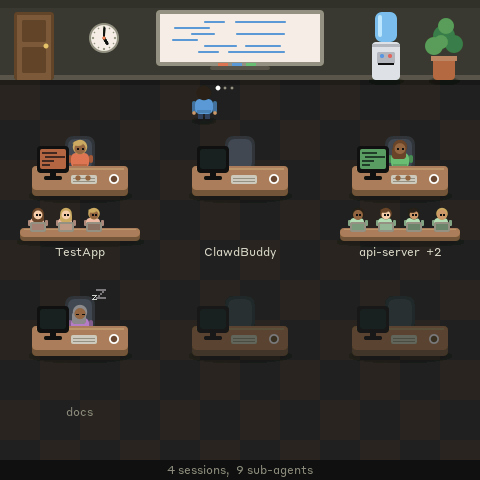
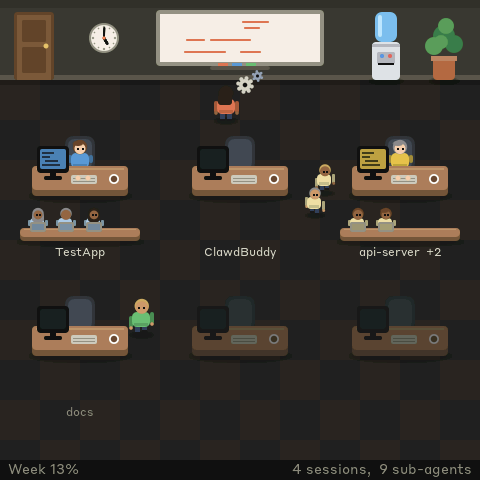
Docs: the office view's new states, the desk card, the status line
Rewrites the office view's state table and data sources, documents tx, td,
aw and the desk request in the protocol, and says what the hooks and the
status line record now, including the session's title. New captures for
the states, the card and the shut office; a simulator scenario for them.

diff --git a/README.md b/README.md
@@ -103,8 +103,10 @@ More detail: [docs/pet-view.md](docs/pet-view.md).
 Off by default. Turn on **Agent team view** on the app's Device page, then
 tap the left or right side of the screen.
 
-**Desks.** Each Claude Code session gets a desk, named after its working
-directory. Sessions sit in the order they started, six to an office.
+**Desks.** Each Claude Code session gets a desk, named after the session's
+title (the one Claude Code shows for it) or, before it has one, its working
+directory. Two sessions that would read the same are numbered (`api`,
+`api 2`). Sessions sit in the order they started, six to an office.
 
 **Two styles.** The app's Device page offers two looks for the office.
 Everything else on this page works the same in both.
@@ -126,14 +128,34 @@ the wall, and form a second row only when the first is full.
 
 **The main agent** sits behind the desk:
 
+![Done, an error, compacting, thinking, and paper for the context used](docs/images/office-states.png)
+
 | You see | It means |
 | --- | --- |
-| Typing, monitor lit with scrolling lines | Running tools |
-| Standing at the whiteboard, writing on it | In a turn with no tool call for 10 seconds: thinking, or one long tool |
+| Typing, monitor lit with scrolling lines | A tool is running, however long it takes, or one just finished |
+| Two gears turning over its head | Thinking: in a turn with no tool running. After six seconds it walks to the whiteboard and writes |
+| At the whiteboard while tools run | Plan mode: the work is a plan |
+| Gears, at the desk | Waiting for its sub-agents, during a turn or after it |
 | A `?` bubble, the name in orange | Waiting for you: a permission prompt or a question |
-| At the desk with thinking dots | Its turn is over, but its sub-agents are still running |
-| Head down under a `z` | Between turns |
-| At the water cooler with a cup | Between turns for 2 minutes or more |
+| A green tick, the name in green | Its turn just ended: your move |
+| A red `!`, the name in red | The turn ended on an API error, such as a usage limit |
+| Arrows pressing in from both sides, a pulsing monitor | Compacting its context |
+| Head down under a `z` | Three minutes after its turn ended |
+| At the water cooler with a cup | Six minutes after its turn ended |
+
+**Paper for the context.** The stack of paper on a desk is how much of its
+context window the session has used: as tall as the monitor when it is full.
+The top sheet turns orange at three quarters and red at nine tenths, and the
+stack sinks while the session compacts. A desk has a mug instead until the
+app knows the figure, which comes from Claude Code's status line (see
+[Settings](#settings)).
+
+**A desk's card.** Tap a desk for the session's full title, what it is doing
+and for how long, the tool running, the model, the context used, its
+sub-agents by type, its task list's progress and the lines it has changed.
+Tap again to close it.
+
+![A desk's card](docs/images/office-card.png)
 
 **Sub-agents** are the smaller people on the bench in front of the desk, in a
 lighter shade of their main agent's colour. Up to four are drawn; `+N` after
@@ -141,8 +163,10 @@ the name counts the rest. Now and then one walks to the whiteboard and back. A
 sub-agent with no activity for 2 minutes waits at the water cooler.
 
 **Coming and going.** Sessions and sub-agents walk in and out through the
-door. A session leaves when it exits, or 15 minutes after its last turn ended.
-When one leaves, the sessions after it move up a desk.
+door. A session arrives when it opens and leaves when it exits, when its
+process is gone, or 15 minutes after its last turn ended. When one leaves,
+the sessions after it move up a desk. A session is the same person in the
+same colour each time it comes in.
 
 **More sessions than desks.** The seventh session (the fifth, with cubicles)
 opens another office, up to twelve sessions in all, and the bottom line
@@ -151,9 +175,18 @@ in the other office walks out of one door and in at the other. An office with
 nobody left is removed. With more than six sessions, names are cut to 8
 characters.
 
-**Also on screen:** the wall clock shows the real time, the whiteboard fills
-with what people write and is wiped when full, and the bottom line counts
-sessions and sub-agents or shows the alert.
+**The bottom line** has the plan's usage on the left (`5h 45%  week 28%`, in
+orange when a limit is used up) and, on the right, the sessions and
+sub-agents in, or the alert.
+
+**No connection.** When the board loses the computer, or hears nothing for a
+minute and a half, the office is shut: lights off, nobody in, and the bottom
+line says so. It opens again as it was when the connection is back.
+
+![The office shut](docs/images/office-shut.png)
+
+**Also on screen:** the wall clock shows the real time, and the whiteboard
+fills with what people write and is wiped when full.
 
 More detail: [docs/office-view.md](docs/office-view.md).
 
@@ -171,8 +204,14 @@ When a session needs you, the board chimes and shows which one:
 | `Stopped on error: my-project` | Another API error ended the turn |
 
 The alert clears when you answer in the terminal, when you tap the screen, or
-after 2 minutes. On the office view the same text shows on the bottom line and
-the session's desk gets the `?`.
+after 2 minutes. On the office view the same text shows on the bottom line,
+the session's desk gets the `?`, and if that desk is in another office the
+view switches to it until the alert ends.
+
+**While you are away.** On macOS the app knows when the keyboard and pointer
+were last used. After three minutes without input an alert no longer times
+out: it waits, and when you are back it chimes again and gets its two minutes
+from then.
 
 ## Controls
 
@@ -182,7 +221,8 @@ the session's desk gets the `?`.
 | Pet view, office view on | Left or right third of the screen | The next or previous view |
 | Large pet | Left or right third | Previous or next species |
 | Large pet | Middle | Back to the meters |
-| Office view | Left or right third | The next or previous view |
+| Office view | A desk | That session's card; any tap closes it |
+| Office view | Left or right third, off a desk | The next or previous view |
 | Anywhere, during an alert | Anywhere | Dismisses the alert |
 | Screensaver | Anywhere | Wakes the pet |
 
@@ -280,7 +320,13 @@ The app's **Device** page sets what the board does:
 | Button | What the BOOT button sends to your computer |
 | Alert chime, session reset chime | The board's sounds |
 
-The **Hooks** page installs and removes the Claude Code hooks. The
+The **Hooks** page installs and removes the Claude Code hooks, each with a
+10-second timeout so a hook that can't start never holds Claude Code up. It
+also sets ClawdBuddy as Claude Code's status line when you have none: one
+line under the prompt (`Fable 5.2 · context 42% · 5h 45% · week 28%`), which
+is how the app learns each session's context and gets the plan's usage after
+every reply. A status line of your own is left alone; the desks then show no
+paper. After updating the app, save the Hooks page once to get the new hooks. The
 **Accounts** page picks which Claude Code account's usage is shown when you
 have more than one.
 
@@ -313,8 +359,16 @@ matching firmware.
 - **Usage** comes from Claude Code's usage endpoint, with the sign-in Claude
   Code already stored.
 - **Hooks** record the event's name, the session id, the sub-agent id, the
-  tool's name or the notification's type, and the name of the working
-  directory. They never record a prompt, a tool's input or its output.
+  tool's name or the notification's type, the name of the working directory,
+  the permission mode, the model, and the session's title as Claude Code
+  shows it. They never record a prompt, a tool's input or its output. The
+  title is text Claude Code wrote about the conversation; it goes to the
+  board and nowhere else.
+- **The status line** command keeps each session's context %, model, usage
+  windows, cost and lines changed.
+- **Claude Code's list of running sessions** (`~/.claude/sessions`) is read
+  to see which sessions are still alive and whether each is busy, idle or
+  waiting.
 - Nothing is sent anywhere except to the board over Bluetooth, and to GitHub
   when the app checks for an update.
 

diff --git a/docs/office-view.md b/docs/office-view.md
@@ -13,43 +13,69 @@ Claude Code runs the app's hook on these events:
 
 | Hook | Used for |
 | --- | --- |
+| `SessionStart`, `SessionEnd` | The session arrived or left; its model |
 | `UserPromptSubmit` | A turn started: the main agent is thinking |
-| `PostToolUse` | A tool ran. Inside a sub-agent the event carries its `agent_id`, which shows that sub-agent is alive |
-| `PreToolUse` (AskUserQuestion), `Notification` | Waiting for you |
-| `Stop`, `StopFailure` | The turn ended |
-| `SubagentStart`, `SubagentStop` | A sub-agent came or went |
-| `SessionEnd` | The session left |
+| `PreToolUse` | A tool started. Until it ends the session is working; an `Agent` call is waiting for sub-agents, the question tool is waiting for you |
+| `PostToolUse`, `PostToolUseFailure` | The tool ended. A failure marked as interrupted ends the turn. Inside a sub-agent the event carries its `agent_id`, which shows that sub-agent is alive |
+| `PermissionRequest`, `Notification` | Waiting for you |
+| `Stop` | The turn ended, and how many agents still run in the background |
+| `StopFailure` | The turn ended on an API error |
+| `SubagentStart`, `SubagentStop` | A sub-agent came or went; its type |
+| `PreCompact`, `PostCompact` | Compacting |
+| `TaskCreated`, `TaskCompleted` | The task list's progress, for the card |
 
 Every call appends one line to `team.log` in the app's folder: the time, the
 event, the session id, the sub-agent id, the tool's name or the notification's
-type, and the name of the working directory. Never a prompt, or a tool's input
-or output.
+type, a few extras (`+pm=plan,tt=Fix_the_login_page,bg=1`: the permission
+mode, the model, the session's title, the agents still running at a Stop, an
+interrupted tool, a StopFailure's error) and the name of the working
+directory. Never a prompt, or a tool's input or output.
 
-The app folds the last hour of that file into the sessions to show
+Two more sources, both optional:
+
+- **The status line.** `clawdbuddy hook statusline` is a Claude Code
+  `statusLine` command. Claude Code hands it each session's context %, model
+  and usage windows after every reply; it keeps them in
+  `statusline/<session id>.json` in the app's folder. The context becomes the
+  paper on the desk.
+- **Claude Code's list of running sessions**, `sessions/<pid>.json` in its
+  config folder (the data behind `claude agents --json`): the process id and
+  a status of busy, idle or waiting. Its format is not documented, so a file
+  that doesn't read as expected is skipped. Where it is newer than the last
+  hook it wins: idle after an interrupt (which has no hook), busy again once
+  a permission was given, waiting before the notification arrives. A session
+  whose process is gone leaves at once.
+
+The app folds the last hour of the log into the sessions to show
 (`desktop/crates/clawdbuddy-core/src/team.rs`) and sends them to the board as
-the `tm` field ([protocol](protocol.md)).
+the `tm` and `tx` fields ([protocol](protocol.md)).
 
 ## A session's state
 
-| State | Sent as | Rule |
-| --- | --- | --- |
-| Working | `w` | The main agent ran a tool in the last 10 seconds |
-| Thinking | `t` | In a turn, no tool call from the main agent for 10 seconds |
-| Waiting | `q` | A permission prompt, a question or an elicitation dialog is up |
-| Delegating | `d` | The turn ended and sub-agents are still running |
-| Idle | `i` | The turn ended, less than 2 minutes ago |
-| On a break | `b` | The turn ended 2 minutes ago or more |
+| State | `tx` | `tm` | Rule |
+| --- | --- | --- | --- |
+| Working | `w` | `w` | A tool is running, or the last one ended within 10 seconds |
+| Thinking | `t` | `t` | In a turn, no tool running |
+| Waiting for you | `q` | `q` | A permission prompt, a question or an elicitation dialog is up |
+| Waiting for sub-agents | `d` | `d` | An `Agent` call is running, or the turn ended and sub-agents still run |
+| Compacting | `c` | `t` | Between `PreCompact` and the next event (10 minutes at most) |
+| Done | `f` | `i` | The turn ended less than 3 minutes ago |
+| Failed | `e` | `i` | The turn ended on an API error |
+| Idle | `i` | `i` | 3 to 6 minutes after the turn ended; or between turns without one having ended (an interrupt), for 2 minutes |
+| On a break | `b` | `b` | After that |
 
-Two things are inferred, because Claude Code has no event for them:
+What is still inferred:
 
-- **Thinking** is "no tool call for 10 seconds", so one long-running command
-  looks the same.
-- **A sub-agent's end** is sometimes not reported. A sub-agent with no event
-  for 10 minutes is taken as gone; after 2 minutes it is counted as quiet and
-  stands at the water cooler.
+- **An interrupt while thinking** has no event. With the list of running
+  sessions it shows at once; without it, a turn with no tool running and no
+  event for 5 minutes is taken as over.
+- **A sub-agent's end** is sometimes not reported. `Stop` says how many still
+  run, and the ones heard from longest ago are dropped to match; otherwise a
+  sub-agent with no event for 10 minutes is taken as gone. After 2 minutes
+  without an event it is counted as quiet and stands at the water cooler.
 
-A session leaves when it exits (`SessionEnd`), 15 minutes after its last turn
-ended, or after an hour without any event.
+A session leaves when it exits (`SessionEnd`), when its process is gone, 15
+minutes after its last turn ended, or after an hour without any event.
 
 ## The scene
 
@@ -72,14 +98,24 @@ and the bottom line are text labels over it (`pet/team_view.cpp`).
   at the door of the other.
 - Each session keeps the shirt colour it was given when it arrived (the one
   fewest sessions were wearing). Sub-agents wear a lighter shade.
-- The main agent goes to the whiteboard after 3 seconds of thinking and comes
-  back when the state changes. Sub-agents visit it at random while their
-  session works.
+- The main agent goes to the whiteboard after 6 seconds of thinking (or of
+  working, in plan mode), stays at least 4 seconds, and comes back when the
+  state changes; a question brings it back at once. Sub-agents visit it at
+  random while their session works.
+- People on their feet who meet step aside for a moment, the one later in
+  the list waiting for the other.
+- A tap is a desk's when it lands on the desk itself (not its bench or its
+  name); the board then asks the app for that desk's card.
+- The context used is a stack of sheets beside the monitor, 42 pixels tall
+  when full, which is the monitor's height.
+- The room's fixed parts (walls, floor, door, board, cooler, plant) are drawn
+  once into a second picture and copied each frame. The time a frame takes
+  is written to the serial log every 300 frames (`team view: N us a frame`).
 - While the view is off screen nobody walks: arrivals are simply at their
   desks the next time it comes up.
 
-The view's picture takes 460 KB of the board's PSRAM, allocated the first
-time it is shown.
+The view's picture and the copy of the room each take 460 KB of the board's
+PSRAM, allocated the first time it is shown.
 
 ## Trying it
 
@@ -87,6 +123,8 @@ time it is shown.
 cd firmware
 SIM_FAST=1 SIM_SCENARIO=sim/team.jsonl SIM_TAPS="3000@440,300" .pio/build/sim/program
 SIM_FAST=1 SIM_SCENARIO=sim/team-cubicles.jsonl SIM_TAPS="3000@440,300" .pio/build/sim/program
+# The finer states, the paper, and a desk's card (the second tap).
+SIM_FAST=1 SIM_SCENARIO=sim/team-states.jsonl SIM_TAPS="3000@440,300;10000@80,170" .pio/build/sim/program
 SIM_FAST=1 SIM_SCENARIO=sim/team-two-offices.jsonl \
   SIM_TAPS="3000@440,300;16000@440,300;40000@40,300" .pio/build/sim/program
 ```

diff --git a/docs/protocol.md b/docs/protocol.md
@@ -27,7 +27,10 @@ payloads to 500 bytes; the firmware has a 512-byte receive buffer, including
 the terminating null byte. The device notifies `0x01` on REQ when it has no
 data yet, asking for a poll.
 It sends `{"dismiss":true}` on TX when a tap or the device's 2-minute timeout
-ends an alert, so the app clears its corresponding alert too. The app expires
+ends an alert, so the app clears its corresponding alert too. It sends
+`{"desk":"a3"}` on TX when a desk in the team view is tapped (and every 3
+seconds while its card is up): the app answers with `td` for the desk with
+that `tm` id. The app expires
 an alert nothing cleared after the same 2 minutes (a test alert after 30
 seconds) and sends `x` if the device still shows it.
 
@@ -57,7 +60,10 @@ A Codex account (a $100 Pro plan: weekly window only, reset credits):
 | `a`, `e`, `es`, `n` | Fast clock: activity 0–3, latest hook event (`p` prompt, `s` stop, `b` back after a gap) and its sequence number, active sessions. |
 | `lt` | The last tool a session ran, as text to show: `my-project: Bash` (the session's working directory name and the tool's name, at most 34 characters; a long project name is cut so the tool shows). From the `PostToolUse` hook, at most one change every 5 s. Shown by the pet view under the status word, over the session count. The first field dropped when a write would exceed its size. |
 | `tv` | The agent team view: 0 = off, 1 = on with the desks skin, 2 = on with the cubicles skin (`team_view` and `team_skin` in the config). Sent with every data payload; the board keeps it until the next one. Firmware 0.1.0 reads any non-zero value as on, with desks. |
-| `tm` | The team view's desks, sent only while `tv` is 1: one entry per session in desk order (the order the sessions started), joined with `\|`, at most twelve; the firmware seats six to an office. An entry is two hex digits (an id that stays the same for the session's life), a state letter (`w` working, `t` thinking, `q` waiting for you, `d` turn over but sub-agents still running, `i` idle, `b` idle for 2 minutes or more), one digit for the sub-agents running (9 = nine or more), one digit for how many of those have had no event for 2 minutes, then the project name (ASCII, at most 12 characters, 8 when there are more than six sessions). `a3w21TestApp\|07b00ClawdBuddy`. Empty when no session is up. At most one change every 2 s. Dropped after `lt` when a write would exceed its size. |
+| `tm` | The team view's desks, sent only while `tv` is not 0: one entry per session in desk order (the order the sessions started), joined with `\|`, at most twelve; the firmware seats six to an office. An entry is two hex digits (an id that stays the same for the session's life), a state letter (`w` working, `t` thinking, `q` waiting for you, `d` turn over but sub-agents still running, `i` idle, `b` idle for 2 minutes or more), one digit for the sub-agents running (9 = nine or more), one digit for how many of those have had no event for 2 minutes, then the project name (ASCII, at most 12 characters, 8 when there are more than six sessions). `a3w21TestApp\|07b00ClawdBuddy`. The name is the session's title when it has one. Empty when no session is up. At most one change every 2 s. Dropped after `lt` when a write would exceed its size. |
+| `tx` | More about each desk in `tm`, four characters each, in the same order, run together. First the finer state: `tm`'s six, and `c` compacting, `f` the turn just ended, `e` it ended on an API error (in `tm` those read `t`, `i`, `i`, which is what firmware 0.1 shows). Second the context used: `0`-`9` then `a`-`z`, thirty-fifths of the window, `-` unknown. Third the permission mode: `p` plan, `e` accepting edits, `a` auto, `y` no prompts, `n` don't ask, `-` default. Fourth the model: `f` Fable, `m` Mythos, `o` Opus, `s` Sonnet, `h` Haiku, `-` unknown. `wk-f` is working, 57 % of the context used, default mode, Fable. Sent and dropped with `tm`. A desk whose four characters are missing or start with an unknown letter keeps `tm`'s state. |
+| `td` | One desk's detail card, sent once for each `{"desk":…}` the device sends: the desk's `tm` id and up to five lines joined with `\|` (`a3\|Fix the login page\|Working 3m - Bash\|Fable 5.2 - context 57%\|Sub-agents: 1 tester\|api - tasks 3/7 - +120 -7 lines`), ASCII, at most 200 characters. The id alone means the desk is gone: the card closes. A write that carries it leaves `tm` and `tx` out when all three would not fit. |
+| `aw` | `1` = nobody is at the computer (no keyboard or pointer input for 3 minutes; macOS only, absent elsewhere): the device does not time an alert out. `0` = someone is. Sent when it changes and while it is `1`; the device keeps the last value until it restarts. When the user returns with an alert still up, the app sends its `m` (and `b`) again. The first field dropped when a write would exceed its size. |
 | `rp` | `1` = the usage numbers are a replay, not a fresh poll (heartbeats, and writes between polls for an event, `a`/`n` change, alert or setting); the rate math and reset detection skip them. Fast-clock fields in the same write still count: a new `es` fires. |
 | `lv` | How lively the pet is, `1` (No-nonsense) to `5` (All-nonsense); `3` is the default. Sent with every data payload and right away when the setting changes. The device stores the last value in NVS, so it applies from boot before the app connects; absent = keep the stored value. |
 | `aa` | How long the pet stays alert for an alert, in seconds: `120` (the default, the whole alert), `30`, `10`, or `0` = no animation. Only the animation: the alert's message, tap, `x`, timeout and dismiss notify are unchanged. Sent like `lv` and stored the same way (clamped to 0–120); absent = keep the stored value. |
